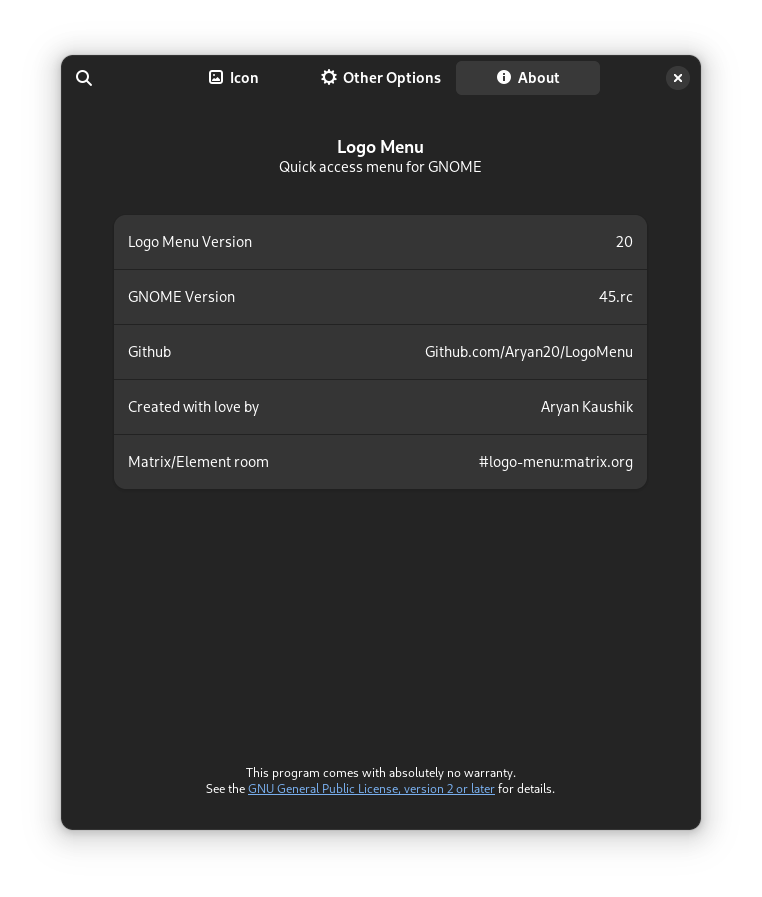
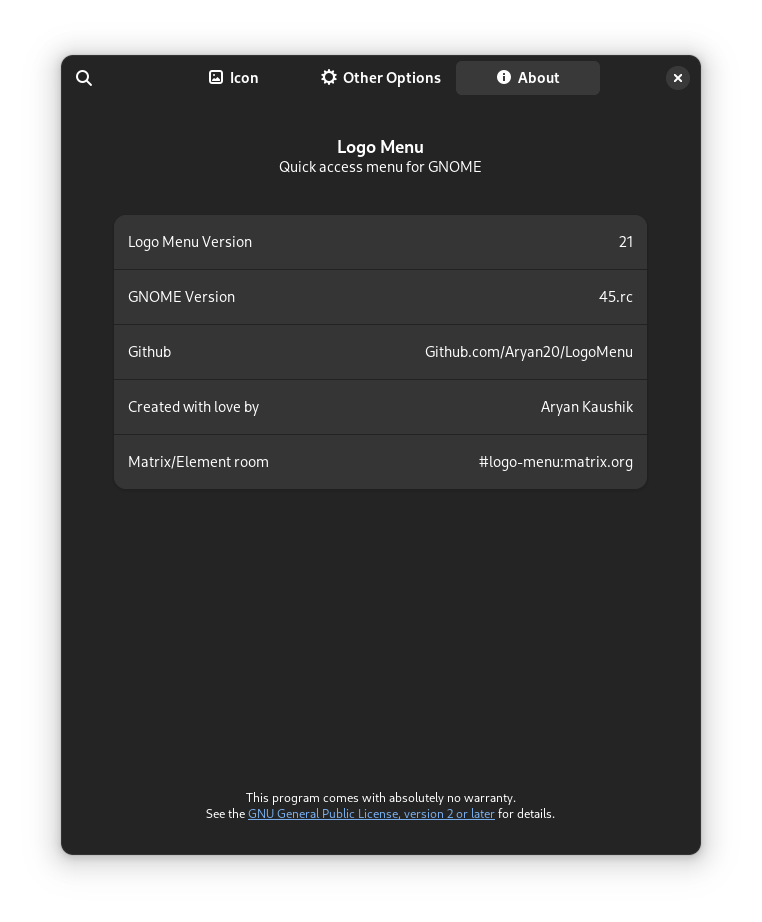
readme: update screenshots

diff --git a/README.md b/README.md
@@ -5,7 +5,7 @@
 
 <br>
 
-## Preference window (Version 20)
+## Preference window (Version 21)
 
 <img src="https://github.com/Aryan20/Logomenu/blob/main/screenshots/45_1.png" width=370>
 <img src="https://github.com/Aryan20/Logomenu/blob/main/screenshots/45_2.png" width=370>
